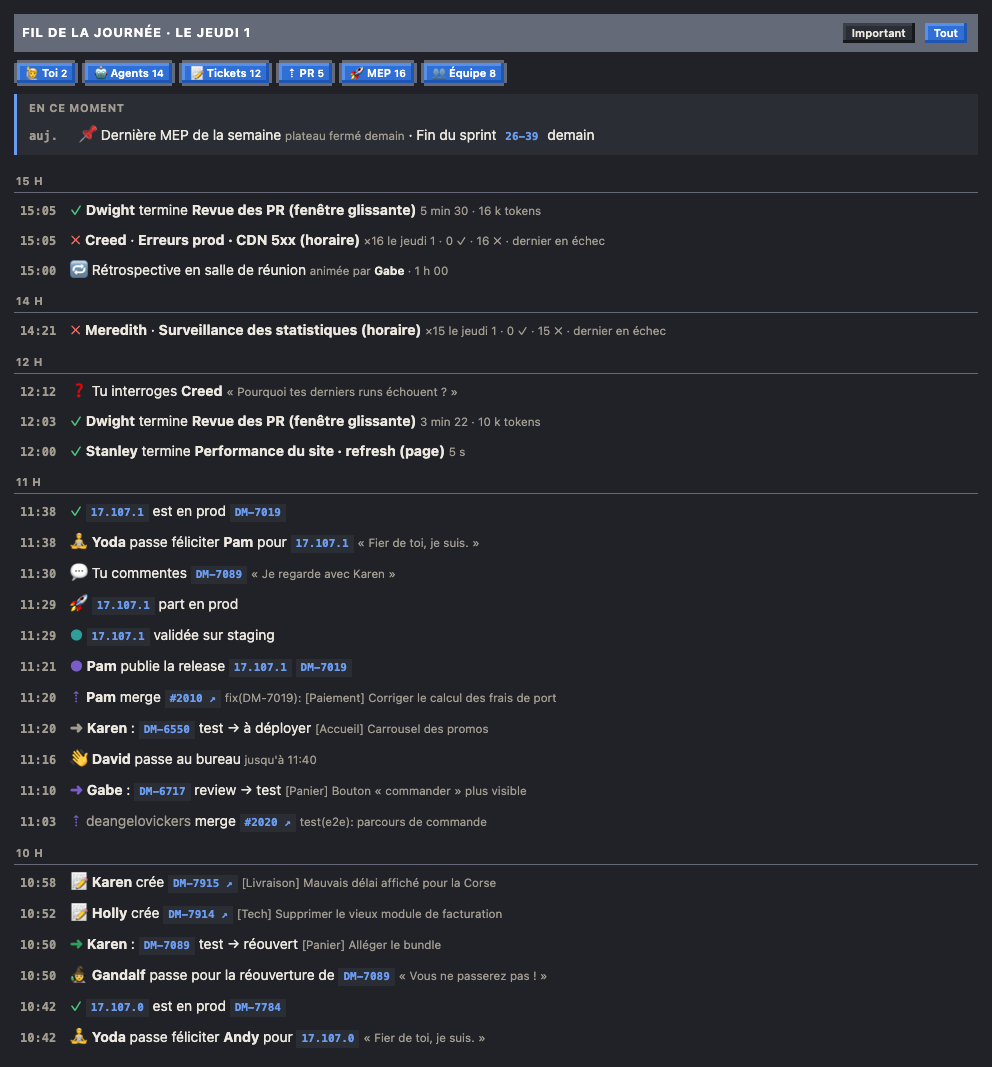
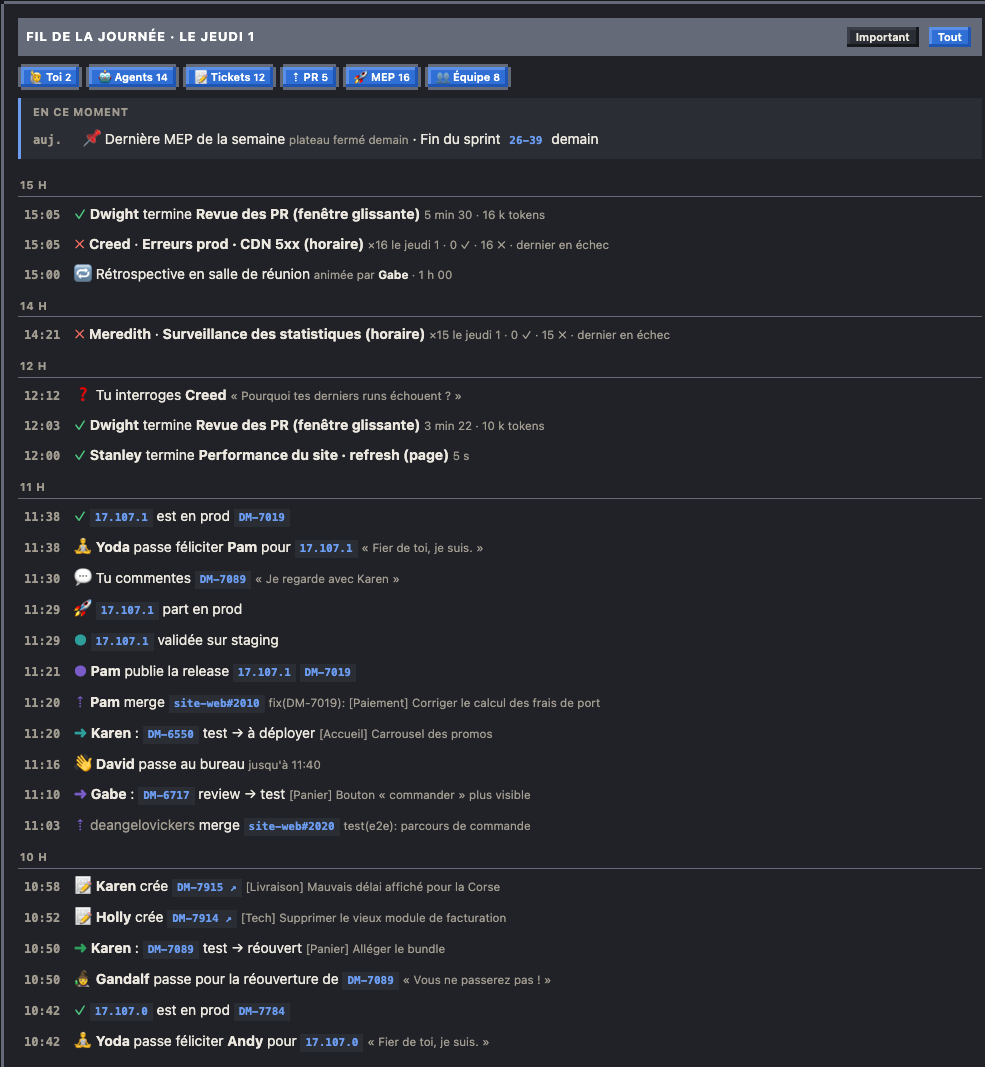
fix/equipe et fil pr (#7)
- **fix(données): un run d'un workflow hors casting ne casse plus le
rattachement de l'équipe**
- **feat(fil): une PR ouvre toujours sa fiche, nommée par son dépôt**
- **fix(fil): un collègue cité par son login GitHub garde son nom**

---------

Changed region(s): [[0.0, 0.0, 1.0, 0.9897], [0.5482, 0.2784, 0.6701, 0.3402]]

diff --git a/page/src/62-ticket.js b/page/src/62-ticket.js
@@ -25,16 +25,21 @@ function prsOf(key){
   const all=[...TEAM.people.flatMap(p=>(p.prs||[]).map(x=>({...x,author:p.name}))),...(TEAM.other_prs||[])];
   return all.filter(x=>(x.keys||[]).includes(key));
 }
+const ficheSel=k=>/^(ticket|pr):/.test(String(k)); // fiches d'un ticket ou d'une PR : le retour mène à la vue d'avant
 function openTicket(key){
-  if(!String(sel).startsWith('ticket:'))TICKET_BACK=sel;
+  if(!ficheSel(sel))TICKET_BACK=sel;
   select('ticket:'+key);
 }
-// lien vers la fiche : <a data-tk="EW-1234"> n'importe où dans le panneau
+function openPr(id){
+  if(!ficheSel(sel))TICKET_BACK=sel;
+  select('pr:'+id);
+}
+// lien vers la fiche : <a data-tk="EW-1234"> ou <a data-pr="owner/dépôt#12"> n'importe où dans la page
 document.addEventListener('click',e=>{
-  const a=e.target.closest&&e.target.closest('[data-tk]');
+  const a=e.target.closest&&e.target.closest('[data-tk],[data-pr]');
   if(!a)return;
   e.preventDefault();
-  openTicket(a.dataset.tk);
+  if(a.dataset.tk)openTicket(a.dataset.tk);else openPr(a.dataset.pr);
 });
 const tkOpen=x=>`<a href="#" data-tk="${esc(x.key)}" title="Ouvrir sa fiche et ses actions" style="color:inherit">${esc(x.summary)}</a>`;
 const TK_REV={approved:['approuvée','var(--ok)'],changes:['changements demandés','var(--err)'],pending:['review en attente','var(--warn)']};
@@ -116,4 +121,54 @@ function renderTicket(side,key){
   if(known&&ACTIONS.estimate&&x.cat!=='done') // ton workflow de réestimation (launch.estimate) : Story Points et raison dans la carte
     launchBlock(box,{action:'bureau-estimate',bind:{key},name:'Réestimer',sub:'Nouveaux Story Points et raison : le ticket est mis à jour dans Jira, avec un commentaire',label:'📏 Réestimer',title:'Réestimer '+key});
   if(box.childElementCount===before)note(known?'Rien à lancer à ce statut.':'Ticket pas encore dans les données des boutons : prochain passage du cron équipe.');
+}
+// ---------- fiche d'une PR (lien du fil) : « owner/dépôt#n », dépôt vide = inconnu ----------
+// Ce que la page en sait : la PR de l'équipe (titre, auteur, review, tickets cités) quand elle est du dépôt de l'équipe,
+// sinon ce qu'en disent les runs des agents (auteur) ; les runs d'agents du jour qui l'ont traitée ; GitHub en lien.
+function prInfo(id){
+  const i=String(id).lastIndexOf('#'), repo=String(id).slice(0,i), n=String(id).slice(i+1);
+  const mine=!otherRepo(repo); // dépôt de l'équipe (ou inconnu) : ses PR sont dans le dataset team
+  const all=mine&&TEAM?[...TEAM.people.flatMap(p=>(p.prs||[]).map(x=>({...x,who:p.id,who_name:p.name}))),...(TEAM.other_prs||[]),
+    ...(TEAM.merged_today||[]).map(m=>({...m,merged:true,who_name:m.author}))]:[];
+  const pr=all.find(x=>String(x.n)===n)||null;
+  const runs=[];
+  for(const c of chars){if(c.person||c.visitor)continue;
+    for(const r of c.runs){const ref=runRef(r);if(ref&&ref.pr===n&&(ref.repo||'')===(mine?'':repo)&&r._s<=T)runs.push({r,c});}}
+  runs.sort((a,b)=>a.r._s-b.r._s);
+  const au=(runs.find(x=>x.r.vars&&x.r.vars['current_task.author'])||{r:{vars:{}}}).r.vars['current_task.author'];
+  const owner=(pr&&personChar(pr.who,pr.who_name))||ghChar(au)||null;
+  return {repo,n,pr,runs,owner,ownerName:(pr&&pr.who_name)||au||null,
+    url:(pr&&pr.url)||(repo?`https://github.com/${repo}/pull/${encodeURIComponent(n)}`:'')};
+}
+function renderPr(side,id){
+  const x=prInfo(id);
+  const h=document.createElement('h2');h.textContent=(x.repo?x.repo.split('/')[1]:'')+'#'+x.n;side.appendChild(h);
+  const gh=x.url?`<a href="${esc(x.url)}" target="_blank" rel="noopener" style="color:var(--accent)">Ouvrir sur GitHub ↗</a>`:'dépôt GitHub inconnu';
+  const rv=x.pr&&(x.pr.merged?['mergée','var(--ok)']:x.pr.draft?['brouillon','var(--idle)']:TK_REV[x.pr.review]);
+  const head=document.createElement('div');head.style.cssText='margin:0 0 12px';
+  head.innerHTML=(x.pr&&x.pr.title?`<div style="font-size:14px;margin-bottom:6px">${esc(x.pr.title)}</div>`:'')+
+    `<div style="font-size:12px;color:var(--muted)">`+(rv?`<span class="dot" style="background:${rv[1]};display:inline-block;margin-right:6px"></span>${esc(rv[0])} · `:'')+
+    (x.owner||x.ownerName?'de '+refWho(x.owner,x.ownerName)+' · ':'')+(x.repo?esc(x.repo)+' · ':'')+gh+`</div>`;
+  side.appendChild(head);
+  const keys=(x.pr&&x.pr.keys)||[];
+  if(keys.length){
+    const tb=foldSection(side,'pr-tk','Son ticket',keys.length,true);
+    const ul=document.createElement('ul');ul.className='steps';ul.style.marginLeft='0';
+    for(const k of keys){const t=ticketOf(k);const li=document.createElement('li');
+      li.innerHTML=t?`<span class="dot" style="background:${(TCAT[t.cat]||{c:'var(--idle)'}).c}"></span><a href="#" data-tk="${esc(k)}" style="color:var(--accent);white-space:nowrap">${esc(k)}</a><span>${esc(t.summary)}</span><span class="k">${esc(t.status||'')}</span>`
+        :`<span class="dot" style="background:var(--idle)"></span><a href="${JIRA_BROWSE}${encodeURIComponent(k)}" target="_blank" rel="noopener" style="color:var(--accent)">${esc(k)} ↗</a><span>hors du sprint</span>`;
+      ul.appendChild(li);}
+    tb.appendChild(ul);
+    const note=document.createElement('div');note.className='note';note.textContent='Relire, corriger : depuis la fiche du ticket.';tb.appendChild(note);
+  }
+  const rb=foldSection(side,'pr-runs','Les agents dessus aujourd\'hui',x.runs.length,true);
+  if(!x.runs.length){const e=document.createElement('div');e.className='empty';e.textContent='Aucun run d\'agent sur cette PR aujourd\'hui.';rb.appendChild(e);return;}
+  const ul=document.createElement('ul');ul.className='steps';ul.style.marginLeft='0';
+  for(const {r,c} of x.runs){const ok=r.status==='Success', ko=r.status==='Failed';
+    const li=document.createElement('li');
+    li.innerHTML=`<span class="dot" style="background:${ok?'var(--ok)':ko?'var(--err)':'var(--warn)'}"></span><span class="k" style="white-space:nowrap">${esc(hm(r._s))}</span>`+
+      `<a href="#" data-who="${esc(c.key)}" style="color:var(--accent)">${esc(c.name)}</a><span>${esc(clean(r.wf_name))}</span>`;
+    ul.appendChild(li);}
+  ul.addEventListener('click',e=>{const a=e.target.closest('[data-who]');if(a){e.preventDefault();select(a.dataset.who);}});
+  rb.appendChild(ul);
 }

diff --git a/page/src/70-kpis-feed.js b/page/src/70-kpis-feed.js
@@ -90,8 +90,15 @@ const jst=x=>JIRA_ST[x]||String(x||'').toLowerCase();
 function personChar(id,name){
   if(id){const c=chars.find(x=>(x.team&&x.team.id===id)||(x.jira_id&&x.jira_id===id));if(c)return c;}
   if(!name)return null;
+  const g=ghChar(name);if(g)return g; // une review GitHub ne donne que le login (« hollyflax ») : son personnage, sous son nom
   const full=nameKey(name), first=nameKey(String(name).split(' ')[0]);
   return chars.find(x=>x.person&&(nameKey(x.person)===full||nameKey(String(x.person).split(' ')[0])===first))||null;
+}
+// le personnage d'un compte GitHub (roster : github, équipe : gh), casse ignorée ; null si personne
+function ghChar(login){
+  const l=String(login||'').toLowerCase();
+  if(!l)return null;
+  return chars.find(x=>x.person&&(String(x.github||'').toLowerCase()===l||((x.team&&x.team.gh)||[]).some(g=>String(g).toLowerCase()===l)))||null;
 }
 function prOwnerChar(n){
   if(!TEAM)return null;
@@ -111,15 +118,11 @@ function refTk(key,ext){
   if(!ext&&ticketOf(key))return `<a href="#" class="lk lk-id" data-tk="${esc(key)}" title="Ouvrir sa fiche">${esc(key)}</a>`;
   return extA(JIRA_BROWSE+encodeURIComponent(key),ext?'Ouvrir dans Jira':'Pas dans le sprint : ouvrir dans Jira',key);
 }
-// PR qui cite un ticket du sprint : la fiche de ce ticket (ses PR, Relire, Corriger) ; sinon GitHub ; sinon texte
+// PR : toujours sa fiche dans le panneau (62-ticket.js), nommée par son dépôt (« front_web#2033 ») ; repo absent :
+// le dépôt de l'équipe (github_repo), inconnu : « #2033 »
 function refPr(n,url,repo){
-  if(otherRepo(repo)){const nm=repo.split('/')[1]; // PR d'un autre dépôt (revue multi-dépôts) : son dépôt, jamais celui de l'équipe
-    return extA(`https://github.com/${repo}/pull/${encodeURIComponent(n)}`,'Ouvrir sur GitHub ('+repo+')',nm+'#'+n);}
-  const p=[...((TEAM&&TEAM.people)||[]).flatMap(q=>q.prs||[]),...((TEAM&&TEAM.other_prs)||[])].find(x=>String(x.n)===String(n));
-  const k=p&&(p.keys||[]).find(x=>ticketOf(x));
-  if(k)return `<a href="#" class="lk lk-id" data-tk="${esc(k)}" title="Fiche du ticket ${esc(k)} : ses PR et ses actions">#${esc(n)}</a>`;
-  const u=url||(p&&p.url)||(CFG.github_repo?`https://github.com/${CFG.github_repo}/pull/${encodeURIComponent(n)}`:'');
-  return u?extA(u,'Ouvrir sur GitHub','#'+n):`<span class="lk-off" title="Dépôt GitHub inconnu">#${esc(n)}</span>`;
+  const r=otherRepo(repo)?repo:(CFG.github_repo||''), nm=r?r.split('/')[1]+'#'+n:'#'+n;
+  return `<a href="#" class="lk lk-id" data-pr="${esc(r+'#'+n)}" title="Fiche de la PR">${esc(nm)}</a>`;
 }
 const refTag=tag=>`<a href="#" class="lk lk-id" data-mep title="Fiche de la mise en prod">${esc(tag)}</a>`;
 function teamEventTxt(e){
@@ -313,8 +316,8 @@ function renderFeed(){
   // relectures et travaux des agents sur le ticket ou la PR d'un collègue (A1)
   for(const c of chars){if(c.person||c.visitor)continue;
     for(const r of c.runs){if(!r._e||r._e>T||r.status!=='Success')continue;const ref=runRef(r);if(!ref)continue;
-      const pc=runPartner(r)||(ref.pr&&!ref.repo&&prOwnerChar(ref.pr)), what=ref.pr?'la PR '+refPr(ref.pr,null,ref.repo):refTk(ref.key);
-      ev.push({t:r._e,c,team:true,ty:ref.pr?'pr':'tickets',txt:`🤖 ${refWho(c)} ${/review|revue|relu/i.test(r.wf_name||'')?'a relu':'a travaillé sur'} ${what}${pc?' de '+refWho(pc):''}${ref.pr&&ref.key?' '+refTk(ref.key):''}`});}}
+      const au=r.vars&&r.vars['current_task.author'], pc=runPartner(r)||ghChar(au)||(ref.pr&&!ref.repo&&prOwnerChar(ref.pr)), what=ref.pr?'la PR '+refPr(ref.pr,null,ref.repo):refTk(ref.key);
+      ev.push({t:r._e,c,team:true,ty:ref.pr?'pr':'tickets',txt:`🤖 ${refWho(c)} ${/review|revue|relu/i.test(r.wf_name||'')?'a relu':'a travaillé sur'} ${what}${pc||au?' de '+refWho(pc,au):''}${ref.pr&&ref.key?' '+refTk(ref.key):''}`});}}
   // sprint : lancement et fin du jour (A2)
   if(TEAM&&TEAM.sprint){const sp=TEAM.sprint, st=ms(sp.start), en=ms(sp.end), sameDay=x=>x&&parisDay(x)===parisDay(T);
     if(sameDay(st)&&st<=T)ev.push({t:st,c:smChar(),team:true,ty:'equipe',txt:`🏁 Le sprint <b>${esc(sp.name)}</b> commence <small>fin le ${esc(dtf('fr-FR',{weekday:'short',day:'numeric',month:'short'}).format(new Date(en)))}</small>`});

diff --git a/tests/temp.test.js b/tests/temp.test.js
@@ -1,0 +1,31 @@
+// Run d'un workflow hors casting (un workflow lancé depuis la page, un nouveau cron) : un intérimaire, et le reste
+// de setData se fait quand même (collègues rattachés à leurs tickets, de passage compris).
+'use strict';
+const test = require('node:test');
+const assert = require('node:assert/strict');
+const {load} = require('./helpers/page.js');
+
+const page = load();
+const run = page.run;
+const J = code => JSON.parse(run('JSON.stringify(' + code + ')'));
+
+test('workflow inconnu : un intérimaire, et les collègues gardent leurs tickets', () => {
+  const r = J(`(() => {
+    TEAM.people.push({id: 'acc-zoe-0001', name: 'Zoé Nouvelle', gh: [], prs: [], merged: [], tickets: [{key: 'DM-9002', cat: 'doing', status: 'En cours', summary: 'x'}]});
+    for (const c of chars) c.team = null; // première ouverture de la page : personne n'est encore rattaché
+    const d = JSON.parse(JSON.stringify(DATA));
+    d.runs.push({wf: 'deadbeef-0000-0000', wf_name: 'Réestimer un ticket', run: 'r-temp', status: 'Success', start: d.generated_at, end: d.generated_at, steps: []});
+    setData(d, true);
+    const t = chars.find(c => c.key === 'temp_deadbeef');
+    return {temp: t && [t.name, t.temp], withTeam: chars.filter(c => c.person && c.team).length,
+      zoe: !!chars.find(c => c.person === 'Zoé Nouvelle' && c.team)};
+  })()`);
+  assert.deepEqual(r.temp, ['Intérimaire 1', true]);
+  assert.ok(r.withTeam > 1);
+  assert.equal(r.zoe, true); // de passage : créé par attachTeam, en fin de setData
+});
+
+test('DISC_BY_RUN repart de zéro à chaque rafraîchissement', () => {
+  run(`DISC_BY_RUN = {fantome: [1]}; setData(DATA, true);`);
+  assert.equal(J(`'fantome' in DISC_BY_RUN`), false);
+});

diff --git a/page/src/50-panel.js b/page/src/50-panel.js
@@ -66,14 +66,14 @@ function refreshStatus(){
   const h=statusHtml(c._st||stateAt(c,T)); if(box.dataset.sig!==h)box.innerHTML=box.dataset.sig=h;
 }
 function drawSide(side){
-  if(String(sel).startsWith('ticket:')){ // fiche d'un ticket (62-ticket.js) : retour à la vue d'où l'on vient
+  if(ficheSel(sel)){ // fiche d'un ticket ou d'une PR (62-ticket.js) : retour à la vue d'où l'on vient
     const back=document.createElement('button');
     back.className='back';
     const to=TICKET_BACK&&(byKey[TICKET_BACK]||['kanban','emp'].includes(TICKET_BACK))?TICKET_BACK:null;
     back.textContent=to==='kanban'?'← Mur Kanban':to&&byKey[to]?'← '+byKey[to].name:"← Toute l'équipe";
     back.onclick=()=>select(to);
     side.appendChild(back);
-    renderTicket(side,sel.slice(7));
+    if(String(sel).startsWith('pr:'))renderPr(side,sel.slice(3));else renderTicket(side,sel.slice(7));
     return;
   }
   if(sel==='tv'||sel==='emp'||sel==='kanban'||sel==='planning'||sel==='paie'||sel==='duck'||sel==='calendar'||String(sel).startsWith('gate:')){

diff --git a/tests/logic.test.js b/tests/logic.test.js
@@ -186,7 +186,10 @@ test('teamEventTxt : statut Jira traduit, reviews, auteur retrouvé par son nom'
   run(`TEAM.events=[{kind:'new',key:'DM-9'}]`);
   assert.equal(txt({kind: 'move', key: 'DM-9', from: 'Proposed', to: 'To Do'}), null);
   assert.deepEqual(txt({kind: 'review', state: 'approved', n: 2012, by: null, by_name: 'michaelscott', author: 'a1'}),
-    {c: null, txt: '✓ michaelscott approuve la PR #2012 de Pam'});
+    {c: null, txt: '✓ michaelscott approuve la PR site-web#2012 de Pam'});
+  run(`chars.push({key:'p_michael',name:'Mike',person:'Michael Scott',github:'MichaelScott'})`); // le login GitHub : son personnage, sous son nom
+  assert.deepEqual(txt({kind: 'review', state: 'approved', n: 2012, by: null, by_name: 'michaelscott', author: 'a1'}),
+    {c: 'p_michael', txt: '✓ Mike approuve la PR site-web#2012 de Pam'});
   assert.equal(txt({kind: 'review', state: 'commented', n: 2012, by: 'a1', author: 'a1'}), null);
   assert.equal(run(`prOwnerChar(2012).key`), 'p_pam');
 });

diff --git a/page/src/30-data.js b/page/src/30-data.js
@@ -221,7 +221,8 @@ function setData(d,live){
   CAST.forEach(add);
   GUESTS.forEach(add);
   const sameSeat=(a,s)=>a.seat&&a.seat[0]===s[0]&&a.seat[1]===s[1];
-  const free=FREE_SEATS.filter(s=>!CAST.some(c=>sameSeat(c,s))&&!Object.values(OUTSIDERS).some(o=>sameSeat(o,s))); // places des de passage : réservées let tempN=0; DISC_BY_RUN={};
+  const free=FREE_SEATS.filter(s=>!CAST.some(c=>sameSeat(c,s))&&!Object.values(OUTSIDERS).some(o=>sameSeat(o,s))); // places des de passage : réservées
+  let tempN=0; DISC_BY_RUN={};
   DAY0=parisMidnight(ms(d.generated_at));
   for(const r of d.runs){
     r._s=ms(r.start); r._e=ms(r.end);

diff --git a/tools/shots.py b/tools/shots.py
@@ -103,6 +103,9 @@ SHOTS = {
                      "ACTS={tickets:all.map(t=>({key:t.key})),prs:prs.map(x=>({n:String(x.n)}))};"
                      "const pr=prs.find(x=>x.review==='changes'&&!x.draft&&(x.keys||[]).length);"
                      "select('ticket:'+(pr?pr.keys[0]:(all.find(t=>t.cat==='deploy')||all[0]).key));", "#side"),
+    # fiche d'une PR (lien du fil) : la PR #2016 de Darryl, relue deux fois par Dwight (variables de run ajoutées pour la démo)
+    "fiche-pr": (1400, 1200, AT(18.5) + "byKey.dwight.runs.filter(r=>r._s<=T&&r.status==='Success').slice(0,2).forEach(r=>r.vars={'current_task.number':'2016',"
+                 "'current_task.repo':CFG.github_repo});select('pr:'+CFG.github_repo+'#2016');", "#side"),
     "planning": (1400, 1400, AT(11) + "select('planning');", "#side"),
     "mep": (1400, 1400, AT(11.6) + "select('tv');", "#side"),
     "avatar": (1400, 1600, AT(11) + "select('jim');openEditor(byKey.jim);", "#side"),

diff --git a/README.md b/README.md
@@ -13,7 +13,7 @@ Une page Live pour [Kronn](https://github.com/DocRoms/Kronn) façon *The Office*
 | [Fil et récap](guide/fonctionnalites/04-fil-et-recap.md) | La journée heure par heure (ce qui t'attend en haut, tes actions, pannes, filtre par type), et son résumé depuis minuit |
 | [Rejouer la journée](guide/fonctionnalites/05-rejouer.md) | Direct, ou relecture accélérée de minuit à maintenant |
 | [Mode TV et cérémonies](guide/fonctionnalites/06-mode-tv.md) | Écran d'open space lisible à 3 m, tour de table du daily, sprint planning et rétrospective en salle de réunion |
-| [Fiches](guide/fonctionnalites/07-fiches.md) | Journée d'un agent ou d'un collègue ; relancer, interroger ; tes validations et les questions des discussions dans ta fiche de boss, à décider sur la page (bulle ✋ sur ton personnage) ; parler au canard, son sprint et ses trophées ; fiche de paie ; cartes de passion (GitFut, Smash, dramas) |
+| [Fiches](guide/fonctionnalites/07-fiches.md) | Journée d'un agent ou d'un collègue ; fiche d'un ticket ou d'une PR ; relancer, interroger ; tes validations et les questions des discussions dans ta fiche de boss, à décider sur la page (bulle ✋ sur ton personnage) ; parler au canard, son sprint et ses trophées ; fiche de paie ; cartes de passion (GitFut, Smash, dramas) |
 | [Murs du bureau](guide/fonctionnalites/08-murs.md) | Kanban du sprint, planning des crons, mises en prod, employé du sprint, écran du boss avec tes autres pages Kronn |
 | [Avatars](guide/fonctionnalites/09-avatars.md) | Éditeur d'apparence, pour soi ou pour toute l'équipe |
 | [Fraîcheur des données](guide/fonctionnalites/10-fraicheur.md) | Prochaine arrivée, sources en retard, crons du Bureau en échec |

diff --git a/guide/fonctionnalites/04-fil-et-recap.md b/guide/fonctionnalites/04-fil-et-recap.md
@@ -15,8 +15,10 @@ Le fil raconte la journée, heure par heure ; le récap la résume en quelques l
 ![Fil, filtre « Tout »](../img/fil-tout.png)
 - Liens dans chaque ligne :
   - un nom en gras ouvre la fiche de la personne ou de l'agent (et l'allume sur le plan au survol) ;
-  - une étiquette ouvre une fiche dans la page : ticket du sprint, PR (la fiche de son ticket, avec ses PR et les boutons Relire et Corriger), version (la fiche de la mise en prod) ;
-  - une étiquette avec ↗ s'ouvre dehors : Jira pour un ticket créé aujourd'hui ou hors du sprint, GitHub pour une PR sans ticket du sprint ; une PR d'un autre dépôt que celui de l'équipe (revue multi-dépôts) porte le nom de son dépôt (« front_image_server#36 ») et mène à ce dépôt ;
+  - une étiquette ouvre une fiche dans la page : ticket du sprint, PR (toujours la fiche de la PR, voir [Fiches](07-fiches.md)), version (la fiche de la mise en prod) ;
+  - une PR porte toujours le nom de son dépôt, celui de l'équipe comme les autres (revue multi-dépôts) : « front_web#2033 », « front_image_server#36 » ; « Dwight a relu la PR front_api#16 de Andy » se lit pareil quel que soit le dépôt ;
+  - une étiquette avec ↗ s'ouvre dehors : Jira pour un ticket créé aujourd'hui ou hors du sprint ;
+  - un collègue cité par son login GitHub (relecteur d'une PR, auteur d'une PR relue par un agent) est retrouvé par le `github` du roster ou les comptes `gh` de l'équipe : son nom, celui de sa fiche, partout ;
   - un nom grisé n'a pas de fiche (relecteur hors de l'équipe, par exemple) : la raison s'affiche au survol.
 
   Un clic ailleurs sur la ligne ouvre, comme avant, la fiche de la personne principale (ou celle de la mise en prod).

diff --git a/guide/fonctionnalites/07-fiches.md b/guide/fonctionnalites/07-fiches.md
@@ -58,6 +58,10 @@ Rôles et noms par défaut : `impl` → `ticket` (`jira_ticket_key`) ; `mep` →
 
 ![Fiche d'un ticket](../img/fiche-ticket.png)
 
+**PR** : clic sur une PR dans le fil. Son nom avec son dépôt, son titre, l'état de sa review, son auteur (sa fiche), le lien GitHub, le ticket qu'elle cite (sa fiche, d'où se lancent Relire et Corriger) et les runs d'agents du jour qui l'ont traitée (une revue de Dwight, une correction). Pour une PR d'un autre dépôt que celui de l'équipe, la page n'en connaît que ce qu'en disent les runs : l'auteur, les agents, le lien GitHub.
+
+![Fiche d'une PR](../img/fiche-pr.png)
+
 **Visiteur** : la discussion Kronn, ses messages importants, le run qui l'a lancée, et la carte de chaque question qui t'attend (la même que dans la fiche du boss).
 
 **Le canard** (clic sur le canard du plan) : une phrase sur la [méthode du canard en plastique](https://fr.wikipedia.org/wiki/M%C3%A9thode_du_canard_en_plastique), puis :
